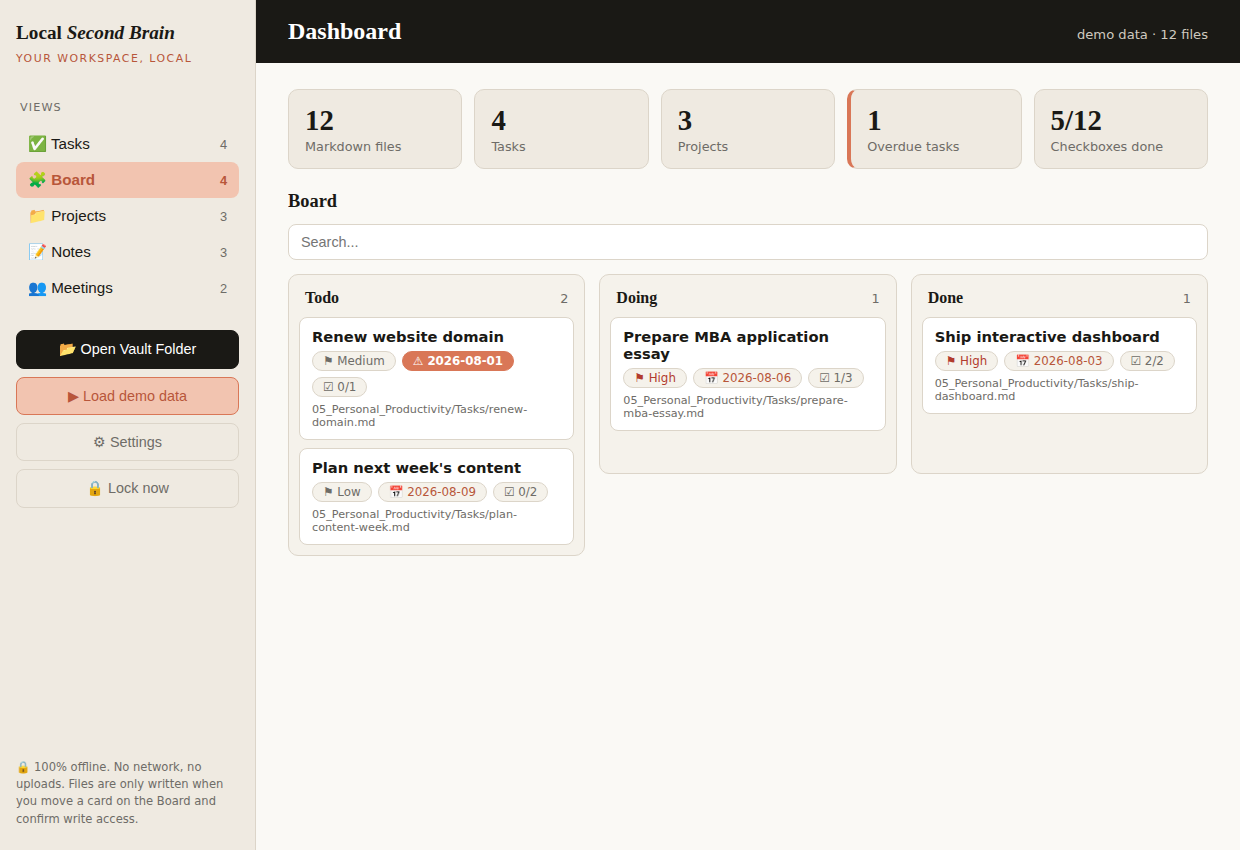
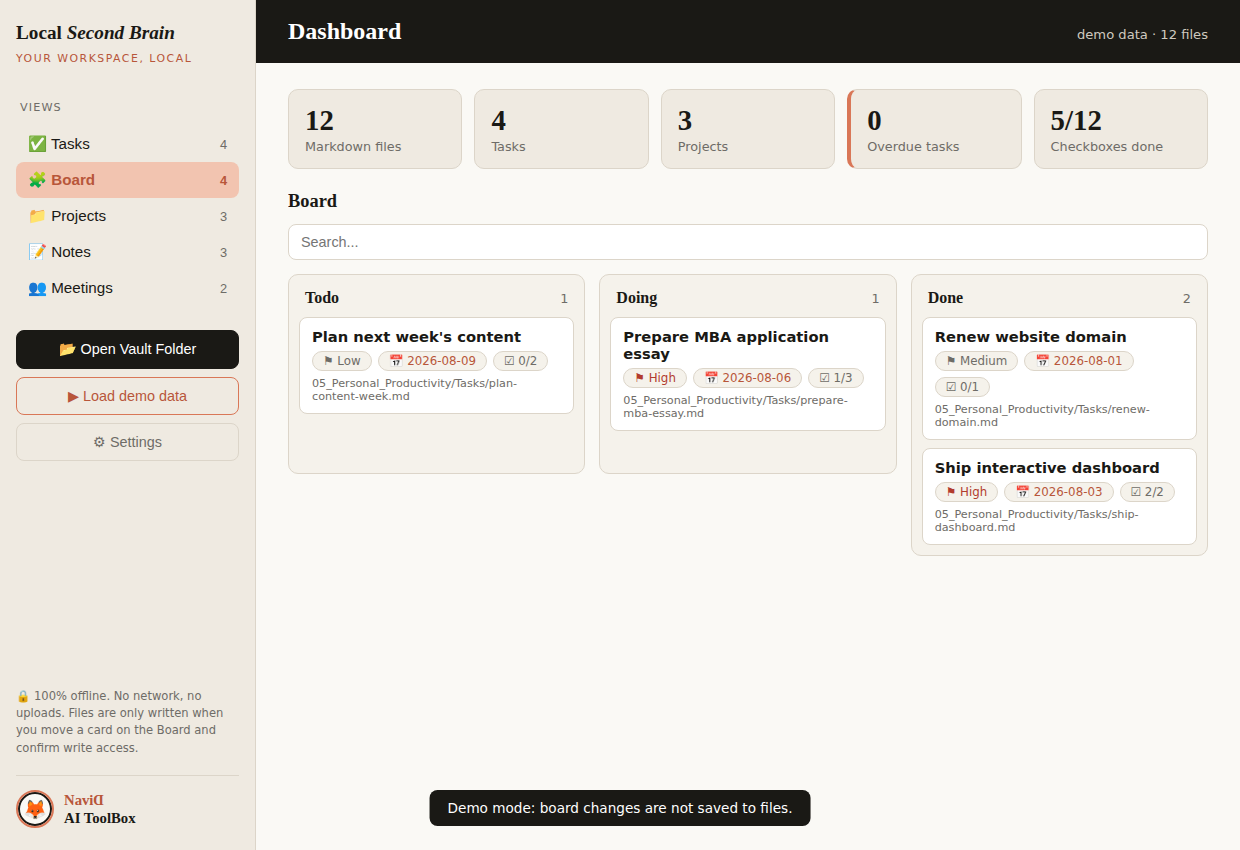
Add NaviD AI ToolBox branding to the dashboard
- Sidebar and lock screen show a NaviD AI ToolBox credit: a circular
  fox badge with the double clay/ink ring from the channel logo, and
  the wordmark with its mirrored D, set in the existing palette
- Verified in Chromium: badge renders, board drag and drop still works,
  no JS errors

diff --git a/dashboard/index.html b/dashboard/index.html
@@ -43,6 +43,19 @@
   .btn-quiet:hover { background:var(--card-light); }
   .side-note { margin-top:auto; color:var(--grey); font-size:.72rem; line-height:1.5; padding-top:18px; }
 
+  /* ---- Navid AI ToolBox credit ---- */
+  .credit { display:flex; align-items:center; gap:10px; margin-top:12px; padding-top:14px;
+    border-top:1px solid var(--line); }
+  .credit .badge { width:38px; height:38px; border-radius:50%; background:var(--paper);
+    border:2px solid var(--clay); box-shadow: inset 0 0 0 2px var(--ink);
+    display:flex; align-items:center; justify-content:center; font-size:19px; flex:none; }
+  .credit .cname { font-family:Georgia, serif; font-weight:700; font-size:.92rem; line-height:1.25; }
+  .credit .cname .navid { color:var(--clay-dark); display:block; }
+  .credit .cname .flip { display:inline-block; transform:scaleX(-1); }
+  .credit .cname .toolbox { color:var(--ink); }
+  .lock .credit { border-top-color:#4a463f; justify-content:center; }
+  .lock .credit .cname .toolbox { color:#fff; }
+
   /* ---- main ---- */
   main { padding:0 0 48px; }
   .topbar { background:var(--ink); color:#fff; padding:18px 32px; display:flex; align-items:baseline; gap:14px; }
@@ -157,6 +170,13 @@
     <input type="password" id="lockPin" inputmode="numeric" autocomplete="off" aria-label="PIN">
     <div class="err" id="lockErr"></div>
     <button class="btn btn-clay" id="unlockBtn">Unlock</button>
+    <div class="credit">
+      <span class="badge">🦊</span>
+      <span class="cname">
+        <span class="navid">Navi<span class="flip">D</span></span>
+        <span class="toolbox">AI ToolBox</span>
+      </span>
+    </div>
   </div>
 </div>
 
@@ -184,6 +204,13 @@
     </div>
 
     <div class="side-note">🔒 100% offline. No network, no uploads. Files are only written when you move a card on the Board and confirm write access.</div>
+    <div class="credit">
+      <span class="badge">🦊</span>
+      <span class="cname">
+        <span class="navid">Navi<span class="flip">D</span></span>
+        <span class="toolbox">AI ToolBox</span>
+      </span>
+    </div>
   </aside>
 
   <!-- Main -->
